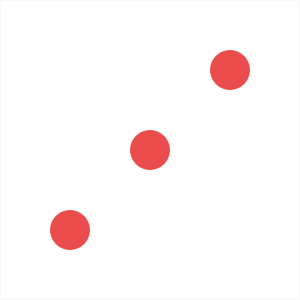
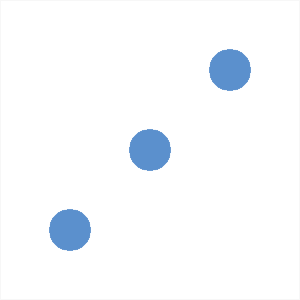
changed css, added own score functionality

Changed region(s): [[0.69, 0.15, 0.84, 0.3], [0.15, 0.69, 0.3, 0.84], [0.42, 0.42, 0.57, 0.57]]

diff --git a/starter/style.css b/starter/style.css
@@ -2,6 +2,25 @@
 *** GENERAL
 **********************************************/
 
+.final-score {
+    position: absolute;
+    left: 50%;
+    transform: translateX(-50%);
+    top: 520px;
+    color: #555;
+    font-size: 18px;
+    font-family: lato;
+    text-align: center;
+    padding: 10px;
+    width: 160px;
+    text-transform: uppercase;
+}
+
+.final-score:focus {
+    outline: none;
+}
+
+
 * {
     margin: 0;
     padding: 0;
@@ -66,7 +85,7 @@ body {
     text-align: center;
     font-size: 80px;
     font-weight: 100;
-    color: #EB4D4D;
+    color: rgb(0, 0, 0);
     margin-bottom: 130px;
 }
 
@@ -77,14 +96,14 @@ body {
     content: "\2022";
     font-size: 47px;
     position: absolute;
-    color: #EB4D4D;
+    color: rgb(77, 172, 235);
     top: -7px;
     right: 10px;
     
 }
 
 .player-current-box {
-    background-color: #EB4D4D;
+    background-color: rgba(77, 164, 235, 0.712);
     color: #fff;
     width: 40%;
     margin: 0 auto;
@@ -127,7 +146,7 @@ button:focus {
 }
 
 i {
-    color: #EB4D4D;
+    color: rgb(47, 0, 255);
     display: inline-block;
     margin-right: 15px;
     font-size: 32px;
@@ -151,4 +170,4 @@ i {
 }
 
 .winner { background-color: #f7f7f7; }
-.winner .player-name { font-weight: 300; color: #EB4D4D; }
+.winner .player-name { font-weight: 500; color: rgb(0, 102, 255); }

diff --git a/starter/app.js b/starter/app.js
@@ -17,6 +17,7 @@ activePlayer = 0;
 gamePlaying = true;
 prevRoll = 0;
 
+
 // document.querySelector('#current-' + activePlayer).textContent = dice;
 // CSS ID: current-1
 
@@ -80,10 +81,12 @@ document.querySelector('.btn-hold').addEventListener('click', function() {
         // Update the UI
         document.getElementById('score-' + activePlayer).textContent = scores[activePlayer];
 
-        
+        var input = document.querySelector('.final-score').value;
+
+        var winVal = (input)? input : 100;
 
         // Check if the player won the game
-        if (scores[activePlayer] >= 10) {
+        if (scores[activePlayer] >= winVal) {
             document.querySelector('#name-' + activePlayer).textContent = 'Winner!';
             document.querySelector('.dice').style.display = 'none';
             document.querySelector('.player-' + activePlayer + '-panel').classList.add('winner');

diff --git a/starter/index.html b/starter/index.html
@@ -29,6 +29,7 @@
                 </div>
             </div>
             
+            <input type="text" placeholder="Final Score" class='final-score'>
             <button class="btn-new"><i class="ion-ios-plus-outline"></i>New game</button>
             <button class="btn-roll"><i class="ion-ios-loop"></i>Roll dice</button>
             <button class="btn-hold"><i class="ion-ios-download-outline"></i>Hold</button>
